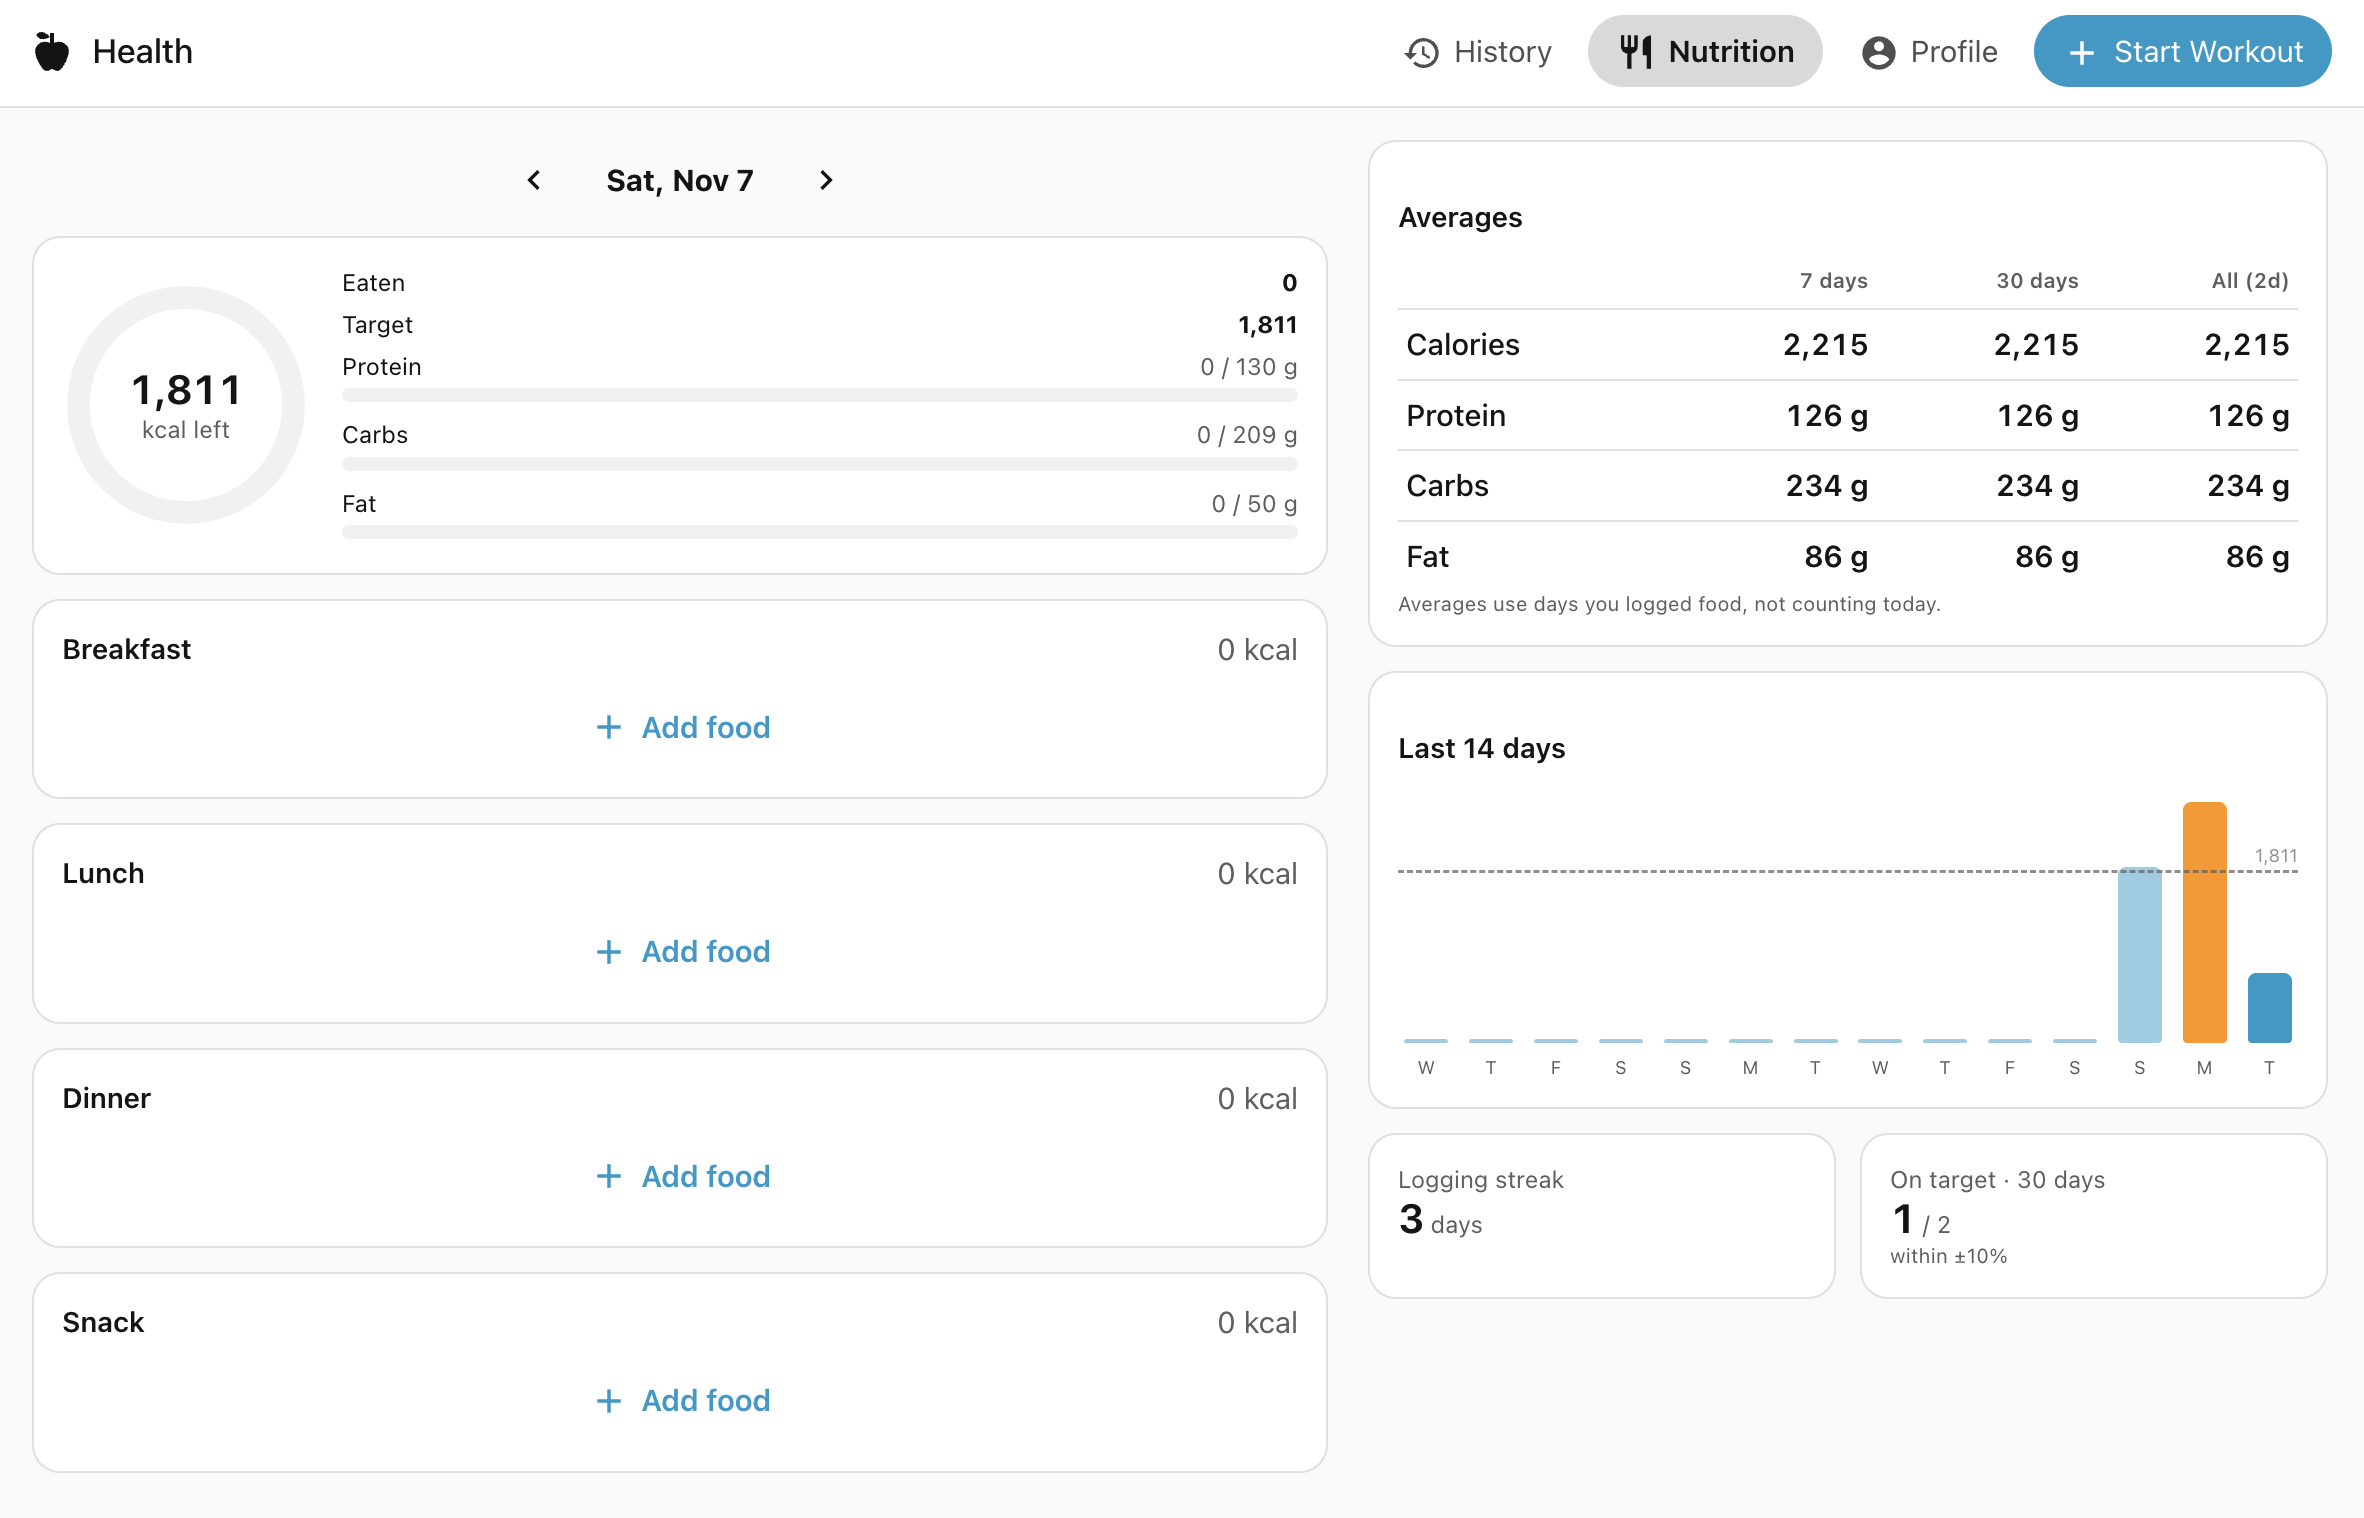
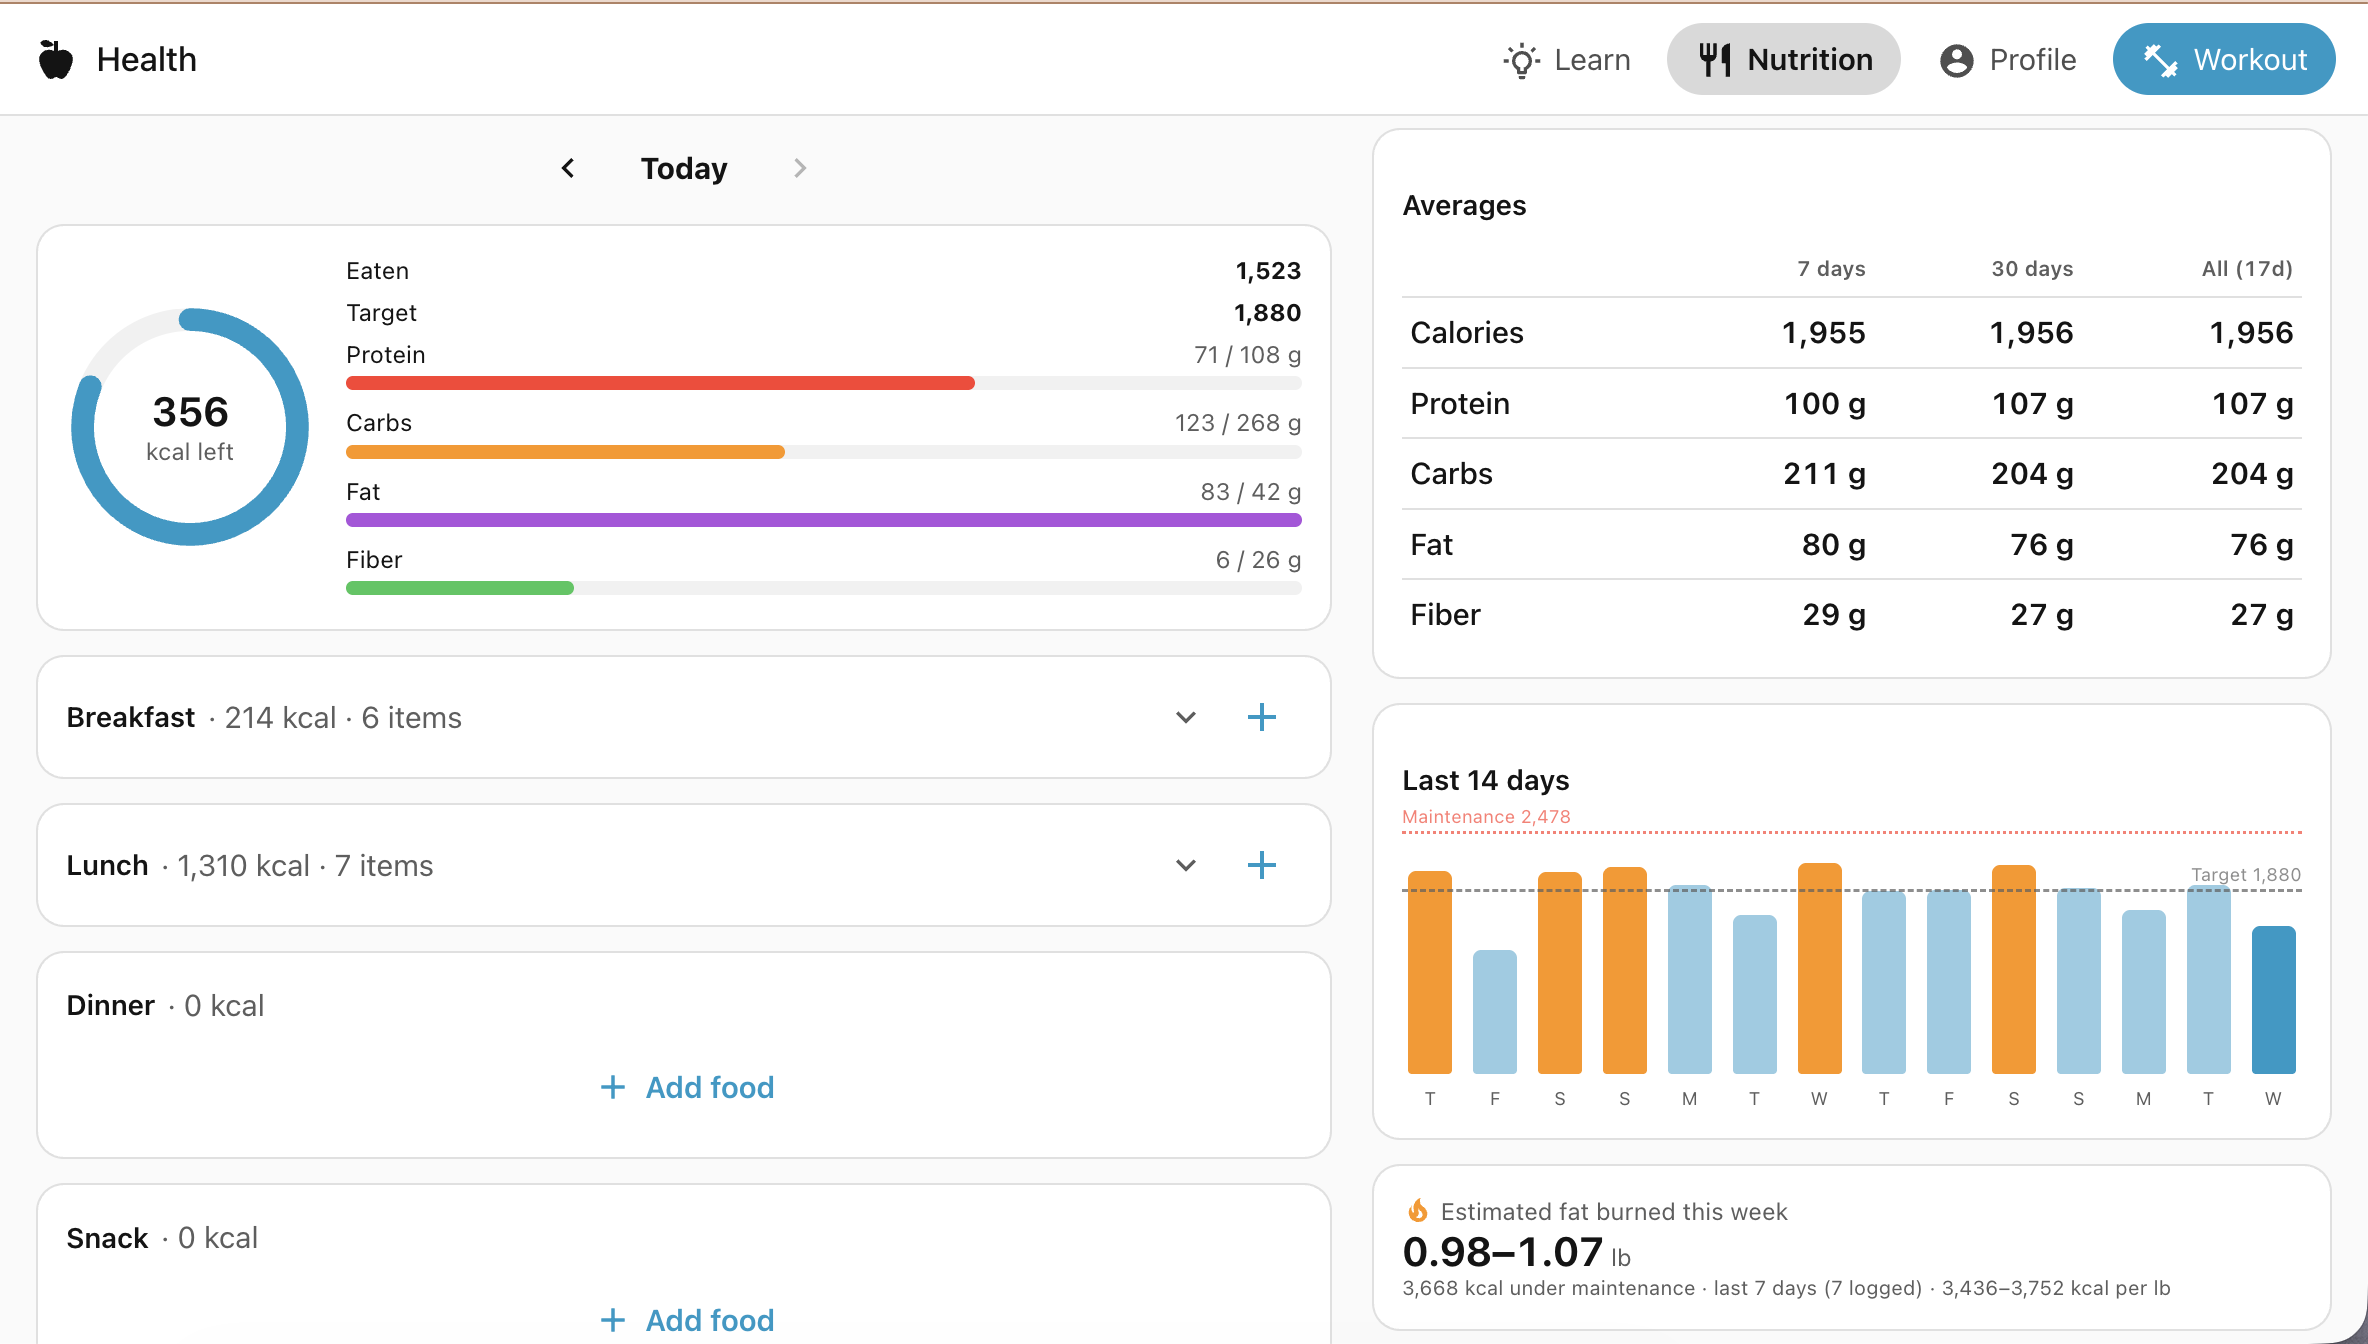
Updated readme for 1.0.0

diff --git a/README.md b/README.md
@@ -18,7 +18,7 @@ Workout, Nutrition, and Health Datapoint logging inside of Home Assistant. Track
 
 ------
 
-<img src="images/live_activity_mobile.jpeg" alt="Nutrition Page"  style="vertical-align: left;"> <img src="images/workout_mobile.jpeg" alt="Nutrition Page"  style="vertical-align: right;">
+<img src="images/live_activity_mobile.jpeg" alt="Nutrition Page"  style="vertical-align: left; max-width: 30%;"> <img src="images/workout_mobile.jpeg" alt="Nutrition Page"  style="vertical-align: center;  max-width: 30%;"> <img src="images/learn_mobile.jpg" alt="Learn Page"  style="vertical-align: right;  max-width: 30%;">
 
 
 ## Installation
